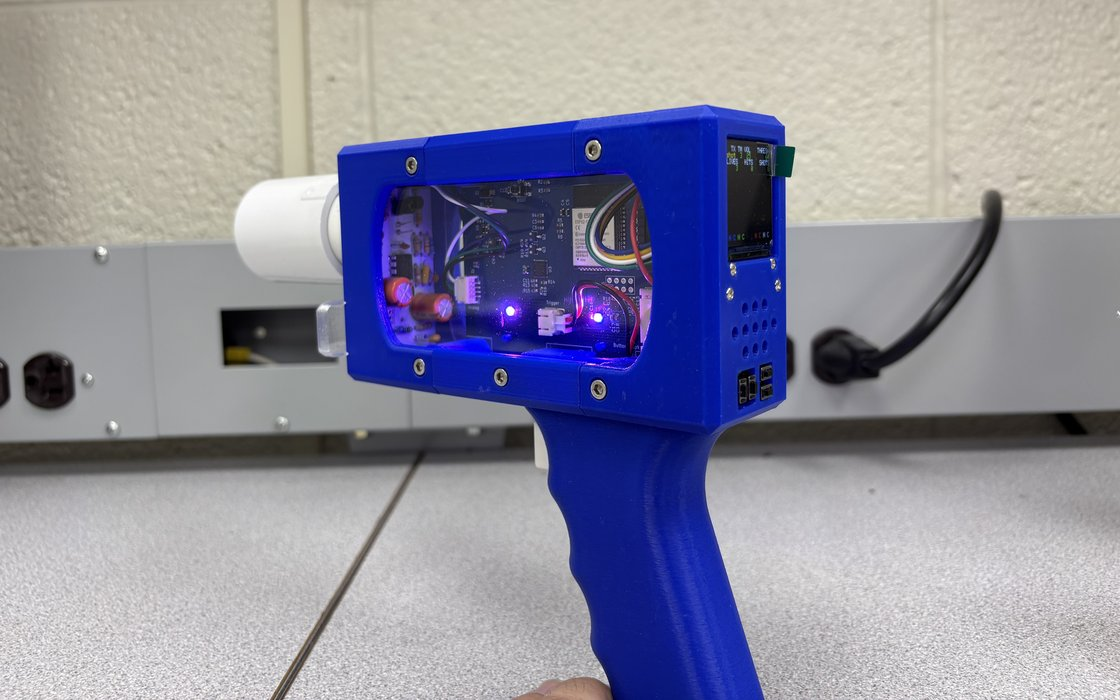
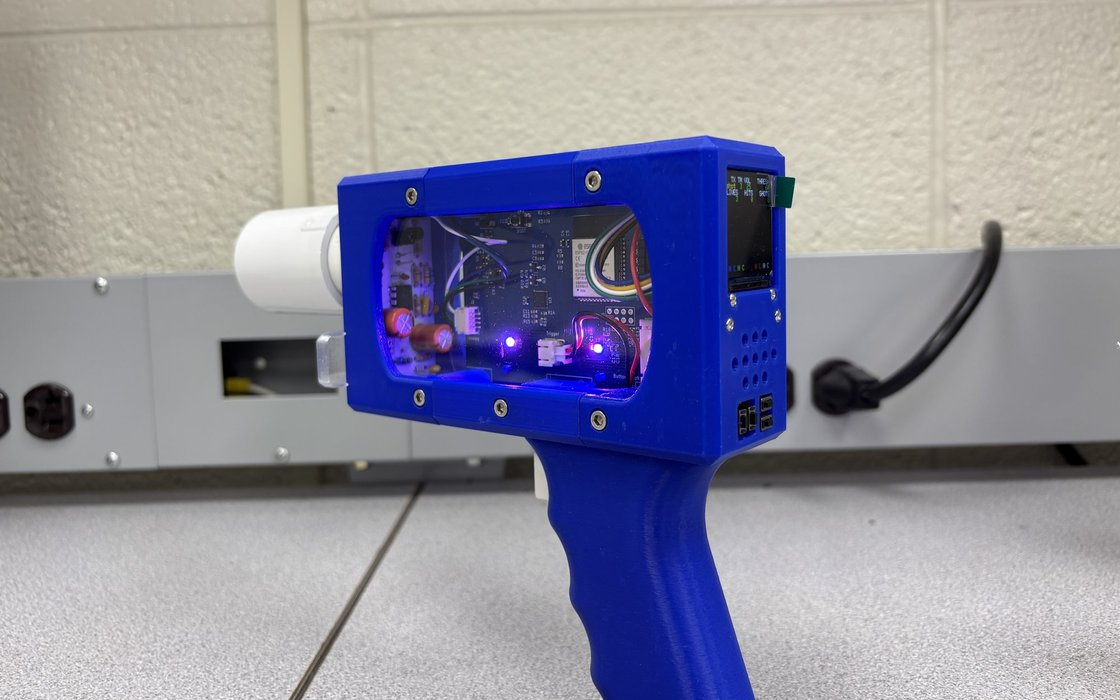
Style changes:

diff --git a/assets/css/main.css b/assets/css/main.css
@@ -214,8 +214,15 @@ p { margin: 0 0 1em; }
   mask-image: linear-gradient(to right, transparent 0%, #000 42%), linear-gradient(to top, transparent 0%, #000 22%);
   animation: hero-settle 2.4s cubic-bezier(.2, .7, .2, 1) both;
 }
-.hero-cinematic .hero-inner { display: block; }
+.hero-cinematic .hero-inner { display: block; max-width: calc(var(--container) + 192px); } /* text sits ~1in further left than the page container */
 .hero-cinematic .hero-text { max-width: 580px; }
+
+/* Hero type rhythm: tight label -> name, then steadily larger steps down the column */
+.hero-text .eyebrow { margin-bottom: 14px; }
+.hero-text .hero-title { line-height: 1.02; margin-bottom: 18px; }
+.hero-text .hero-tagline { line-height: 1.35; margin-bottom: 26px; text-wrap: balance; }
+.hero-text .hero-intro p { margin: 0; }
+.hero-text .hero-actions { margin: 30px 0 22px; }
 .hero-cinematic .hero-text > * { animation: hero-rise .9s cubic-bezier(.2, .7, .2, 1) both; }
 .hero-cinematic .hero-text > :nth-child(2) { animation-delay: .08s; }
 .hero-cinematic .hero-text > :nth-child(3) { animation-delay: .16s; }

diff --git a/_projects/qrng-fpga.md b/_projects/qrng-fpga.md
@@ -45,7 +45,20 @@ The system runs on a Basys3 board with a Xilinx **Artix-7** FPGA:
   (seeded through a bootstrap control input), a multiplier and an accumulator compresses the raw samples into random output bits.
 - **Output:** a transmit controller and USB controller stream the results to a host computer through an FT2232 USB chip.
 
-TODO: Output bit rate, and any randomness test suites the output passed (e.g. NIST).
+## Randomness tests
+
+The extracted output passes the full **NIST SP 800-22** statistical test suite. Every test
+returns a p-value above the standard 0.01 threshold, for each of the three measured outputs.
+As a check, the same tests **fail** without the quantum signal, that is, without the local
+oscillator and vacuum measurement. The randomness comes from the quantum measurement, not
+from the electronics.
+
+<figure class="figure-inset">
+  <a href="{{ '/assets/img/projects/toeplitz/nist-results.png' | relative_url }}"><img src="{{ '/assets/img/projects/toeplitz/nist-results.png' | relative_url }}" alt="Table of NIST SP 800-22 test p-values for the X, P and Z outputs, all above 0.01" style="width: min(100%, 300px);"></a>
+  <figcaption>NIST SP 800-22 results for the three outputs (X̂, P̂, Ẑ), including the Random Excursions and Random Excursions Variant tests. Every p-value is above 0.01. Click to enlarge.</figcaption>
+</figure>
+
+TODO: Output bit rate.
 
 ## QRNG theory
 
